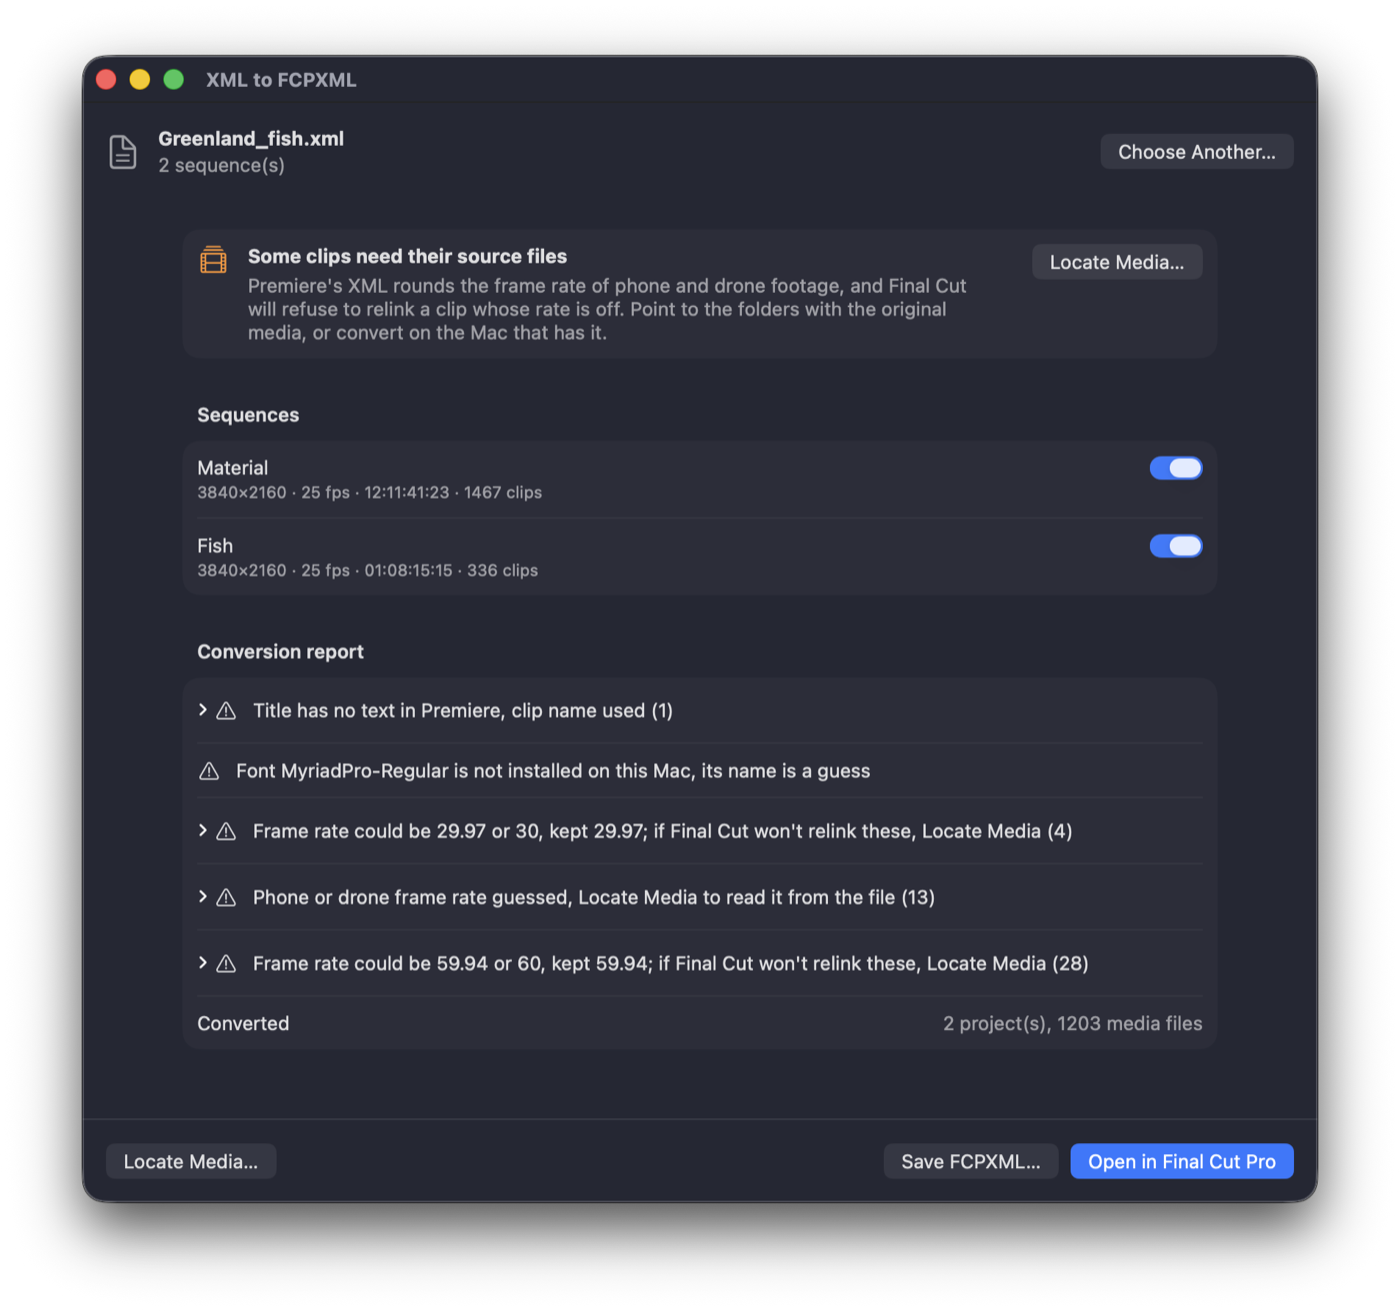
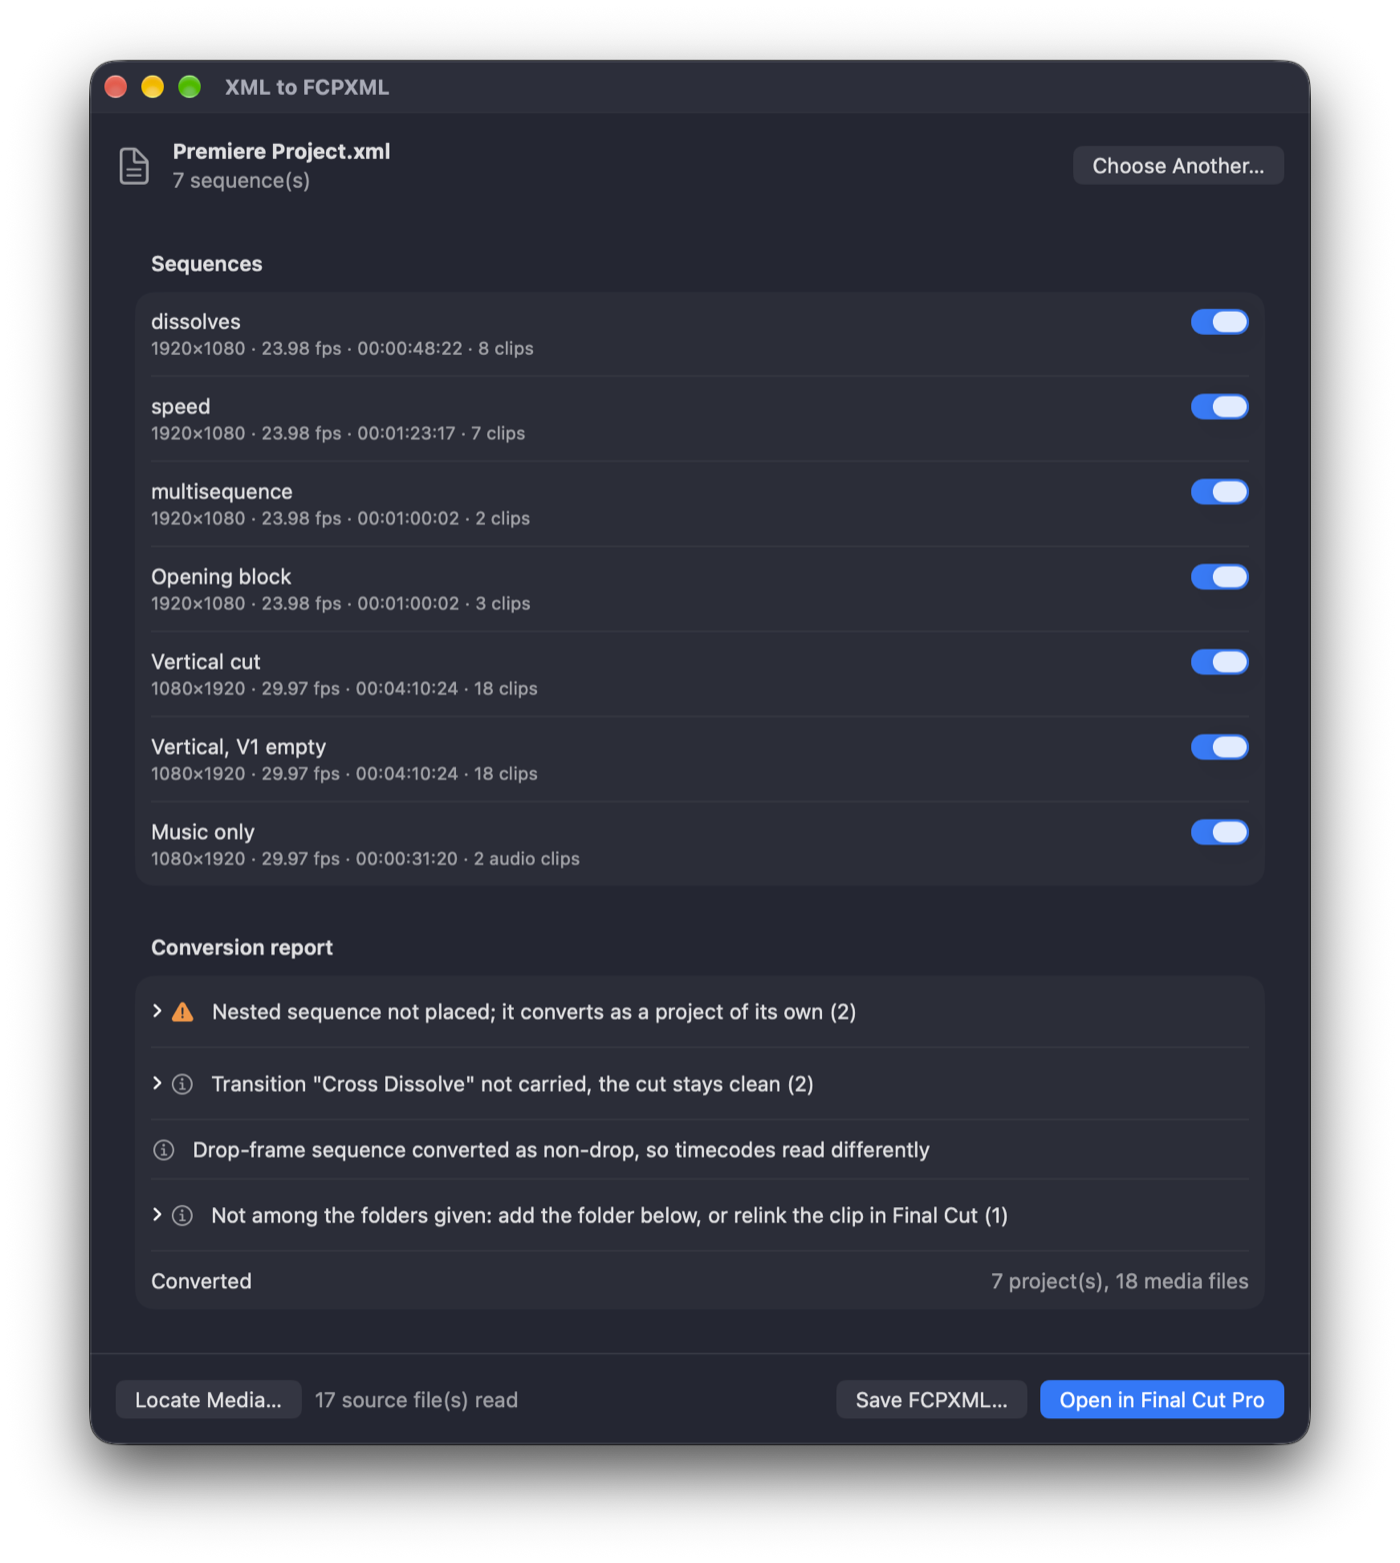
Refresh the window shot, mention Creator Studio and how the report is ordered

diff --git a/index.html b/index.html
@@ -60,7 +60,8 @@
         <span class="dot blue"></span>
         <h3>A report before import</h3>
         <p>Transitions, effects, markers, nested sequences, missing fonts, uncertain frame rates: you see what
-        needs attention before Final Cut does, with the clip and timecode for each.</p>
+        needs attention before Final Cut does, with the clip and timecode for each. What needs your hand comes
+        first; what is only worth knowing sits below it.</p>
       </div>
       <div class="card">
         <span class="dot mix"></span>
@@ -255,8 +256,8 @@
 
     <details>
       <summary>Which versions of Final Cut Pro and Premiere work?</summary>
-      <p>The app writes FCPXML 1.10, which Final Cut Pro 10.6 and later imports. On the Premiere side it reads the
-      standard Final Cut Pro XML export.</p>
+      <p>The app writes FCPXML 1.10, which Final Cut Pro 10.6 and later imports — the one-time purchase, the free
+      trial or Final Cut Pro in Creator Studio. On the Premiere side it reads the standard Final Cut Pro XML export.</p>
     </details>
 
     <details>
